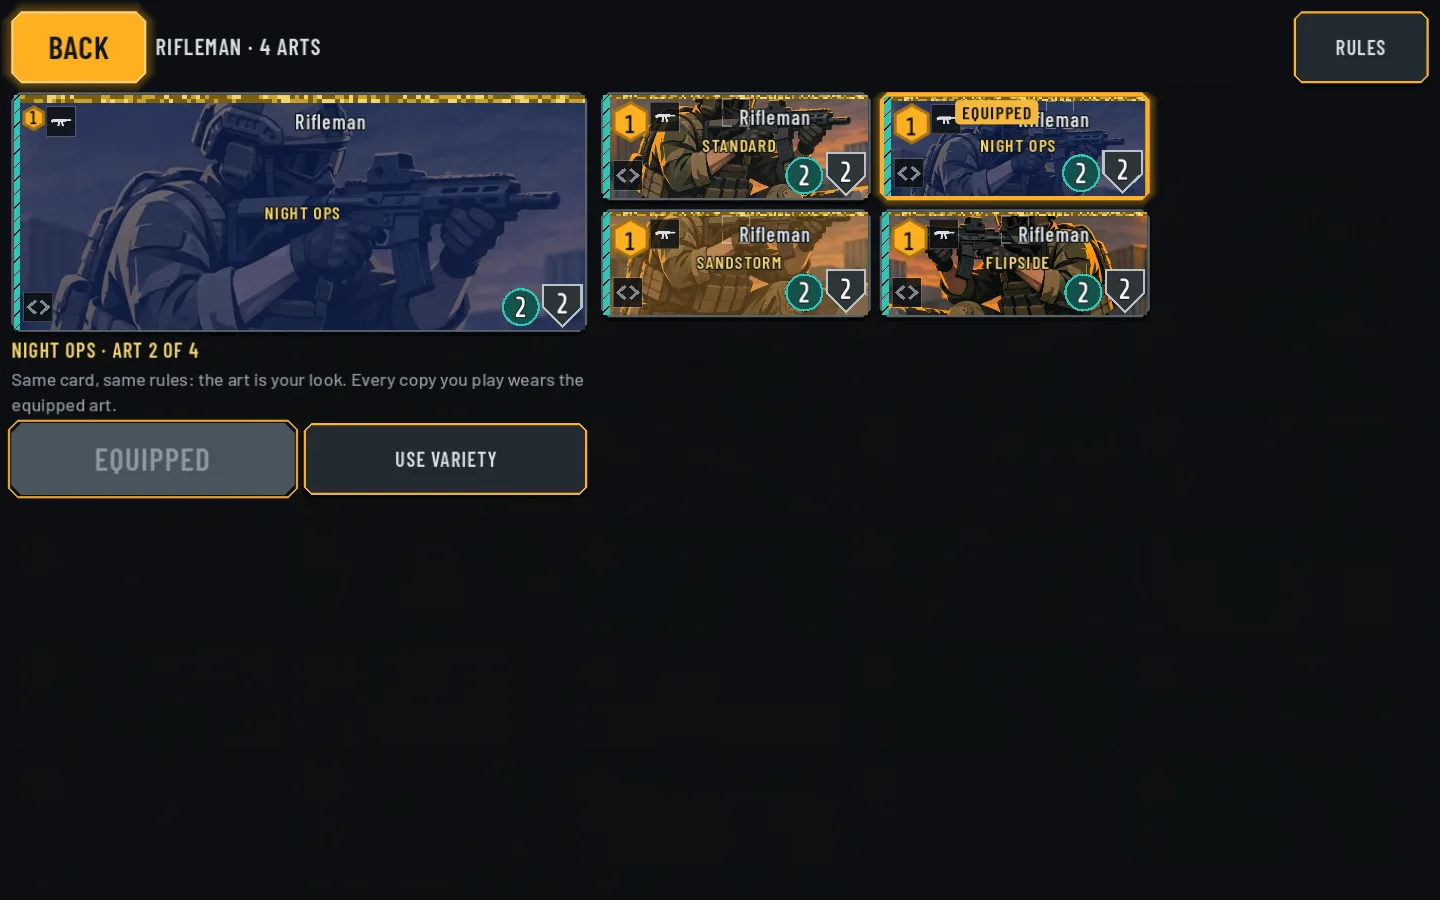
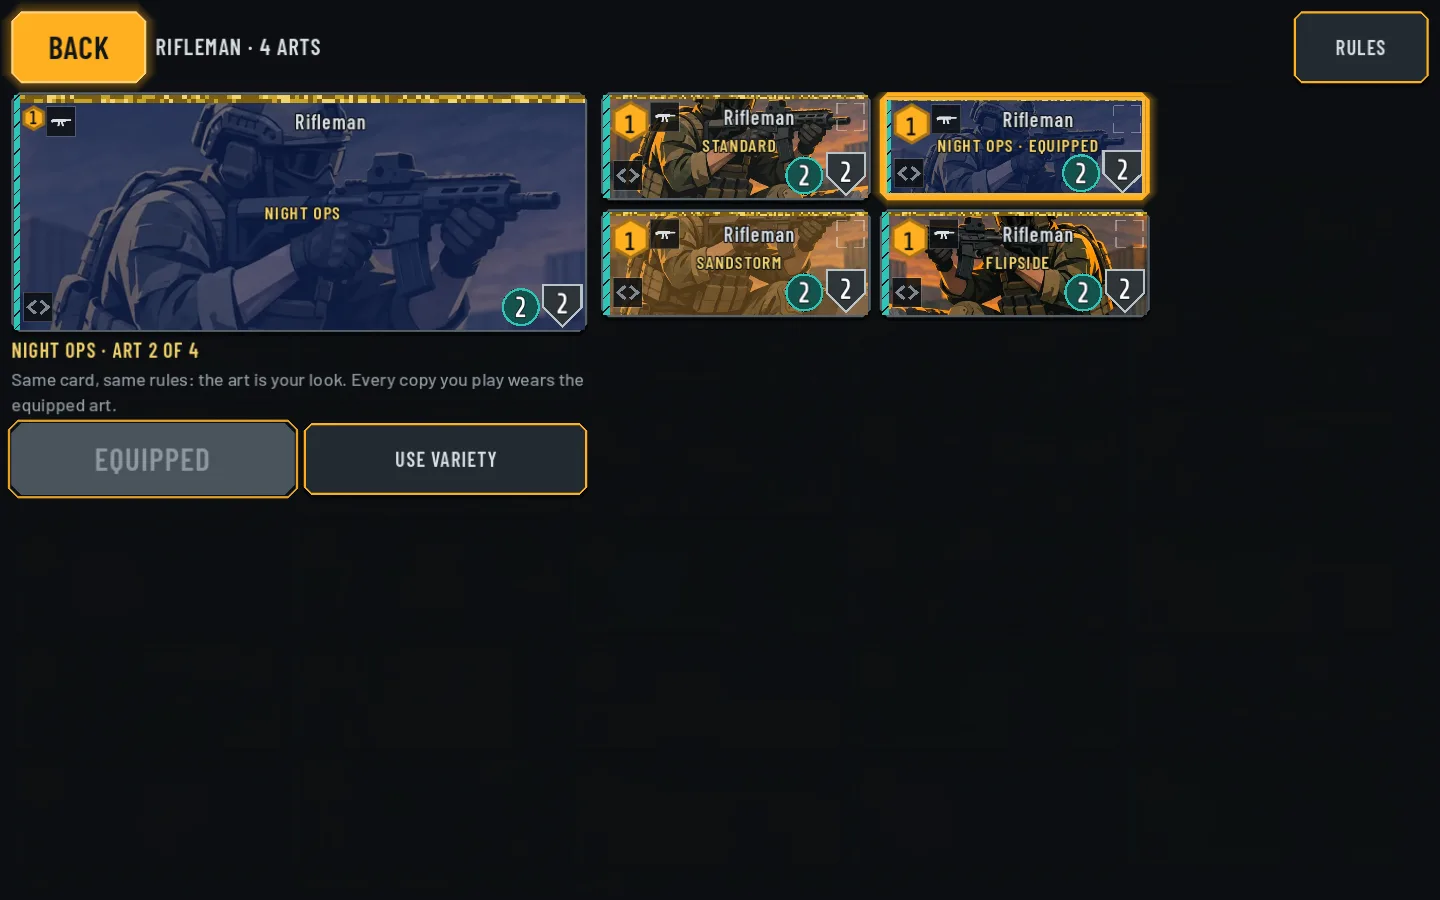
kc-ui4: KillingCard card anatomy on every form (number plates for FP/Armor bottom-right, cost TL, trait TR, abilities BL), board-form hand/Codex cards, Codex art EQUIP, starter squad + Operator pick, Glossary, card name vs art subname
Claude-Session: https://claude.ai/code/session_01JmVwVgoeVTdNBC1RfBf5V4

diff --git a/projects/killingcard/documentation/ux/board-layout-v2.md b/projects/killingcard/documentation/ux/board-layout-v2.md
@@ -282,8 +282,8 @@ The head: "the cards in hand and on the codex should be closer to their form on 
 
 | Piece | What | Where |
 |---|---|---|
-| **One banner layout, both sides** | FP bottom-left, Armor bottom-right (Cover chip left of it), the name over the subname between them, the plate row (class / Elite / trait left; effects / keyword pip right) along the top, the camo / level band on the top edge. Side identity: spine pattern, FP badge shape (teal circle / red diamond), colours, mirrored rival art. Same on the board, hover zoom, hand, codex, starter list, inspector banner. `BannerView.layout()` / `stat_rects()` give the badge rects. | `banner_view.gd` |
-| **Banner hand cards** | Each hand card IS the board banner (BannerCard: BannerView + cost hex top-left + NameLabel / SubLabel), with the board's badge sizes (`metric_h` = the board's banner height). Grid: phone 2 columns of **177x73**, desktop 1 column of **224x64**, 16:9 phone 2 columns of 103x72 (name in the middle band). Rules text and the breakdown: long-press / right-click (tooltip on hover). The Operator keeps its brass card; its status (DEPLOY / PLAN · B / NEED 1 SUPPLY) is the line under its name (on 64 px desktop cards it moves into the plate row). | `banner_card.gd`, `hand_area.gd`, `board_metrics.gd` (`_hand_grid`, CARD_MIN_H 64) |
+| **Card anatomy (the head), every form, both sides** | **Cost top-left** (hex), then the class pip and Elite star; **trait top-right** (the Operator: dog tag); the **name top-centre**; **abilities bottom-left** (Protector, up to 2 keyword glyphs or the effect bolt, the neighbor keyword pip); **FP and Armor side by side bottom-right, each a plate with its number inside** (FP: teal circle / red diamond; Armor: shield, amber when damaged; green up / red down on the number), Cover chip left of them; the **subname** in the middle band when the card is tall enough, else bottom-centre. Camo / level band on the top edge. Side identity: spine pattern, FP plate shape, colours, mirrored rival art. One rule (`BannerView.anatomy()`) for board banners (now with cost and name), ghosts, hover zoom, hand, codex, starter list and the inspector banner; the full CardView (inspector / mulligan) moves FP + Armor to the bottom-right with the number inside too. Icons come through `IconSheet.get_icon()`, which asks `UiKit` first (one kit id per concept); the stat plates are drawn in code until the artist's number-plate art lands. | `banner_view.gd` (`anatomy()`, `ability_kinds()`, `stat_rects()`, `anatomy_now()`), `card_view.gd`, `match_snapshot.gd` (cost on board entries) |
+| **Banner hand cards** | Each hand card IS the board banner (BannerCard: BannerView + cost hex top-left + NameLabel / SubLabel), with the board's badge sizes (`metric_h` = the board's banner height). Grid: phone 2 columns of **177x73**, desktop 1 column of **224x64**, 16:9 phone 2 columns of 103x72 (name in the middle band). Rules text and the breakdown: long-press / right-click (tooltip on hover). The Operator keeps its brass card: its "1 SUPPLY" plate takes the cost slot, its status (DEPLOY / PLAN · B) the top centre (hidden when it does not fit; the tooltip and the red plate say it), and the weapon's name the subname slot. | `banner_card.gd`, `hand_area.gd`, `board_metrics.gd` (`_hand_grid`, CARD_MIN_H 64) |
 | **Naming** | The name is always the chassis ("Rifleman"); the art's name is the subname ("NIGHT OPS", or a licensed calling-card title) under it, on board banners, hand, codex, mulligan (CardView type line), inspector (type line), hover zoom. | `match_snapshot.gd` (`subname`), `BannerArtDB.subname()`, `card_view.gd`, `match_controller.gd`, `board.gd` |
 | **Codex: unique cards + ART panel** | One tile per card (the board banner). Tap = ART panel: big preview, every alternate art (licensed pool in the pitch; our variants STANDARD / NIGHT OPS / SANDSTORM / FLIPSIDE in the public build), a trait slot per art (dashed until arts carry traits; the manifest's `trait` column fills it, and EQUIP then reads "EQUIP · GIVES UNDEAD"), EQUIP / EQUIPPED, USE VARIETY, RULES. Long-press / right-click a tile = the inspector. EQUIPPED: amber frame + "· EQUIPPED" after the subname. | `codex/codex_view.gd`, `BannerArtDB.alt_arts() / _variant() / art_trait()` |
 | **Equip in gameplay** | `Settings.equipped_arts` (chassis -> art id, saved in `user://settings.cfg`). The match gives every copy YOU play of that chassis the equipped art (overrides the per-copy variety; un-equipped cards keep it); the rival is unchanged. | `autoload/settings.gd`, `match_controller.gd` `_assign_copy_arts()` |
@@ -291,7 +291,7 @@ The head: "the cards in hand and on the codex should be closer to their form on 
 | **Glossary** | Codex GLOSSARY, MENU > GLOSSARY, and a "?" on every keyword line of the inspector (opens at that entry). Categories ALL / KEYWORDS / SYNERGY / STATS & BOARD + search. Every card keyword (from `CardInfo.KEYWORD_RULES`, Pierce included), Field / Overrun, the 4 neighbor keywords with a mini neighbour diagram, the 4 traits with both tier texts, the 4 levels with their bands, Doctrine, link ticks, set callouts, the green / red stat colours, FP / Armor / Cover / Supply, range, objective, control, Operator, killstreak, incoming. Texts come only from `CardInfo.KEYWORD_RULES`, `CardInfo.GLOSSARY_EXTRA` (new) and `SynergyRules`. | `codex/glossary.gd`, `card_info.gd` (`GLOSSARY_EXTRA`), `card_inspector.gd`, `pause_menu.gd` |
 | QA | `kcQa.codex_arts` (art tiles, equipped, selected), `kcQa.starter` (Operator tiles, groups, picked), `kcQa.glossary`. | `qa_bridge.gd` |
 
-**Deviations / open.** The public build's alternate arts are regrades of the chassis' placeholder (night / sand / mirrored), clearly placeholders. Board banners now also print the card name (the same as the hand card); the rival FRONT tab sits on the name line of the rival's front row. Hand cards are wide banners, so the licensed 4:1 art is cropped less than in the old 2:3 window but more than on the board (about 2.4:1 on the phone). The tray's mini Operator card keeps the card's height (banner cards are short already).
+**Deviations / open.** The full CardView keeps its keyword row and rules text in the middle (it is the detail view) and has no trait slot (the inspector's banner above it shows the trait). The public build's alternate arts are regrades of the chassis' placeholder (night / sand / mirrored), clearly placeholders. Board banners now also print the cost and the name (the same as the hand card). Hand cards are wide banners, so the licensed 4:1 art is cropped less than in the old 2:3 window but more than on the board (about 2.4:1 on the phone). The tray's mini Operator card keeps the card's height (banner cards are short already).
 
 **QA.** `tests/test_ui4.gd` (6 tests: identical FP / Armor rects for both sides on 4 banner sizes and the live board, hand banner badges and chassis name; codex ART panel -> EQUIP -> saved and reloaded -> every Rifleman copy in a match wears it, the rival and other cards don't; the starter panel groups the deck, the Operator pick reaches the run, the save, the match and the next run / quick match, the rival unchanged, no change after the run began; the codex STARTER button; every keyword / neighbor keyword / trait in the data has a glossary entry and icon; the glossary from MENU and the inspector "?"). Updated: board metrics, hand art 4:1, codex tap = ART panel, loadout opens on the starter panel, the tutorial's chip rect for a grid. Browser smoke (`?qa=1&seed=101`, 844x390 and 1440x900, public and pitch). Screenshots (public art, WebP): `qa/screenshots/ui4/`.
 

diff --git a/projects/killingcard/documentation/design/card-system.md b/projects/killingcard/documentation/design/card-system.md
@@ -282,7 +282,7 @@ More arts go to the most-played chassis, so alternate art shows up within a sing
 The 6 animated are the artist's 4 "yes" (marksman_neon, gunner_inferno, callout_ping, blackout_street) plus 2 from later batches (a Rifleman and the Commander). Two passes still work: first one art for every chassis (8 missing, see §2.5), then the remaining alternates.
 
 ### 3.4 Stats on the banner: icon slots
-> **kc-ui4 (head, 2026-11-06): superseded placement.** "Attack and health icons must be in the same place for my cards and the opponent's." Every banner, both sides, now uses ONE layout: **FP bottom-left, Armor bottom-right** (Cover chip left of it), the card name (always the chassis) over the art's subname between them, the plate row (class, Elite, trait; effects, keyword pip) along the top, the camo / level band on the top edge. Side identity stays in the spine pattern, the FP badge shape (teal circle / red diamond) and the colours. Hand cards and Codex tiles are this same banner (with a cost hex); see `ux/board-layout-v2.md`, kc-ui4 notes. The text below is the original proposal.
+> **kc-ui4 (head, 2026-11-06): superseded placement.** "Attack and health icons must be in the same place for my cards and the opponent's." Every card form, both sides, now uses ONE anatomy (the head's): **cost top-left, trait top-right, abilities bottom-left, FP and Armor side by side bottom-right, each a plate with its number inside**; the name (always the chassis) top-centre and the art's subname in the middle band or bottom-centre; the camo / level band on the top edge. Side identity stays in the spine pattern, the FP badge shape (teal circle / red diamond) and the colours. Hand cards and Codex tiles are this same banner (with a cost hex); see `ux/board-layout-v2.md`, kc-ui4 notes. The text below is the original proposal.
 This follows the artist's safe zones: **the art's left and right ~15% stay calm for icons**, and the subject stays in the middle 70%. Icons sit on the **inner edge**, the edge that faces the objective. That's the top edge for your cards and the bottom edge for enemy cards. Across each objective, the two front cards' numbers face each other, so the fight reads at a glance: "my 3 vs their 2".
 
 ```
